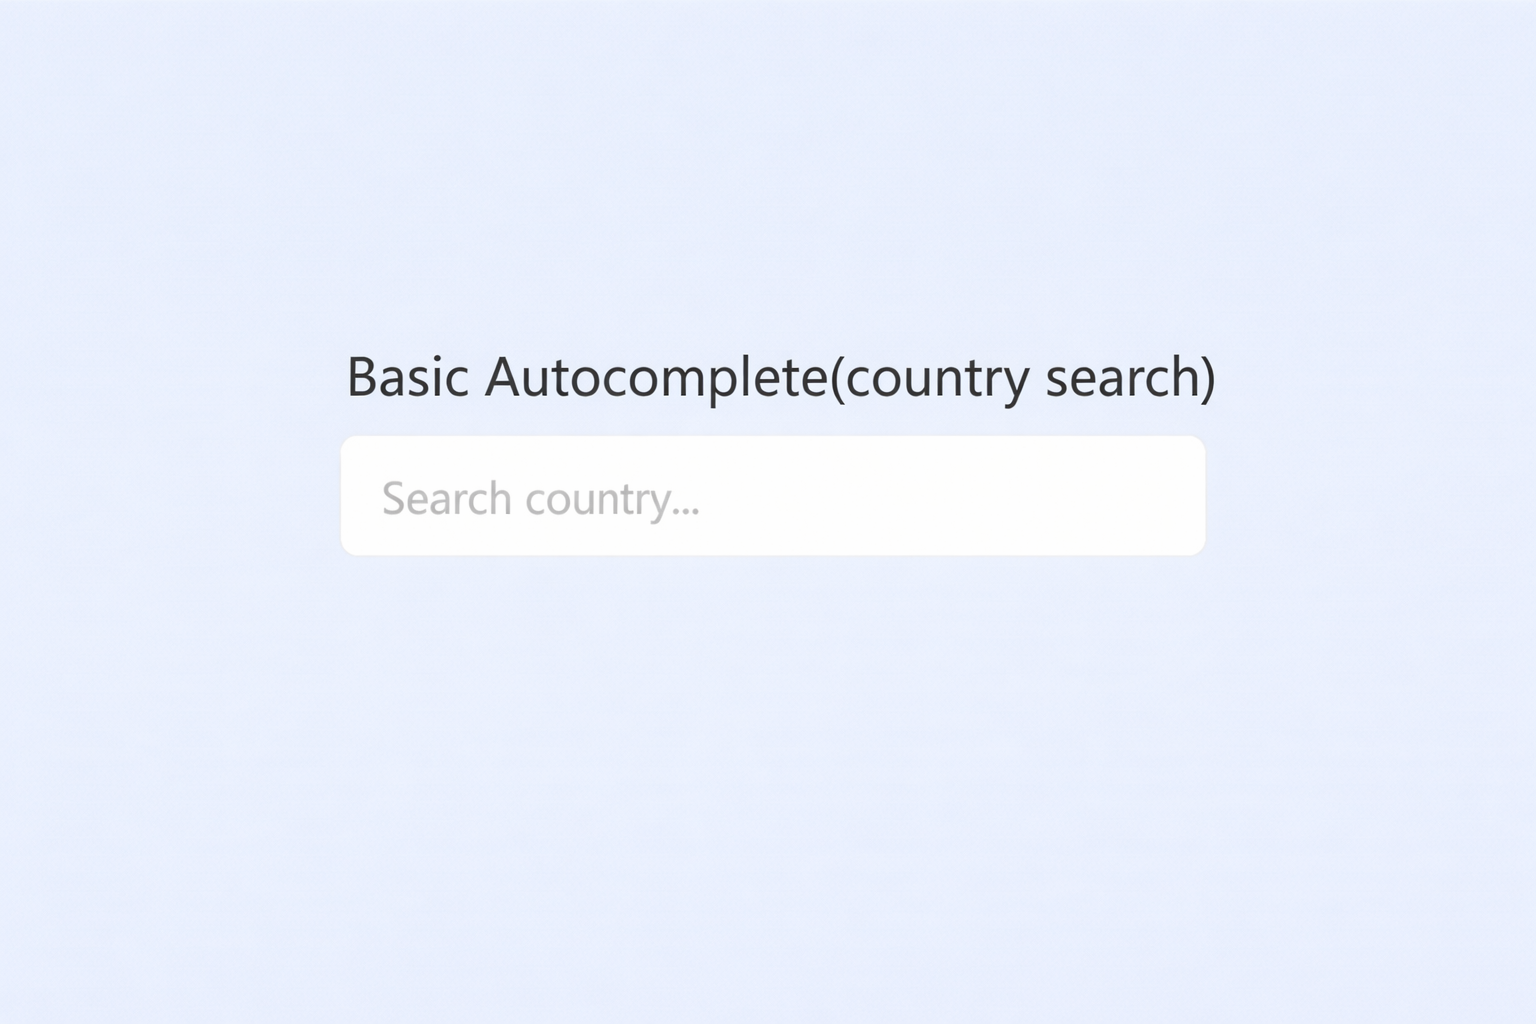
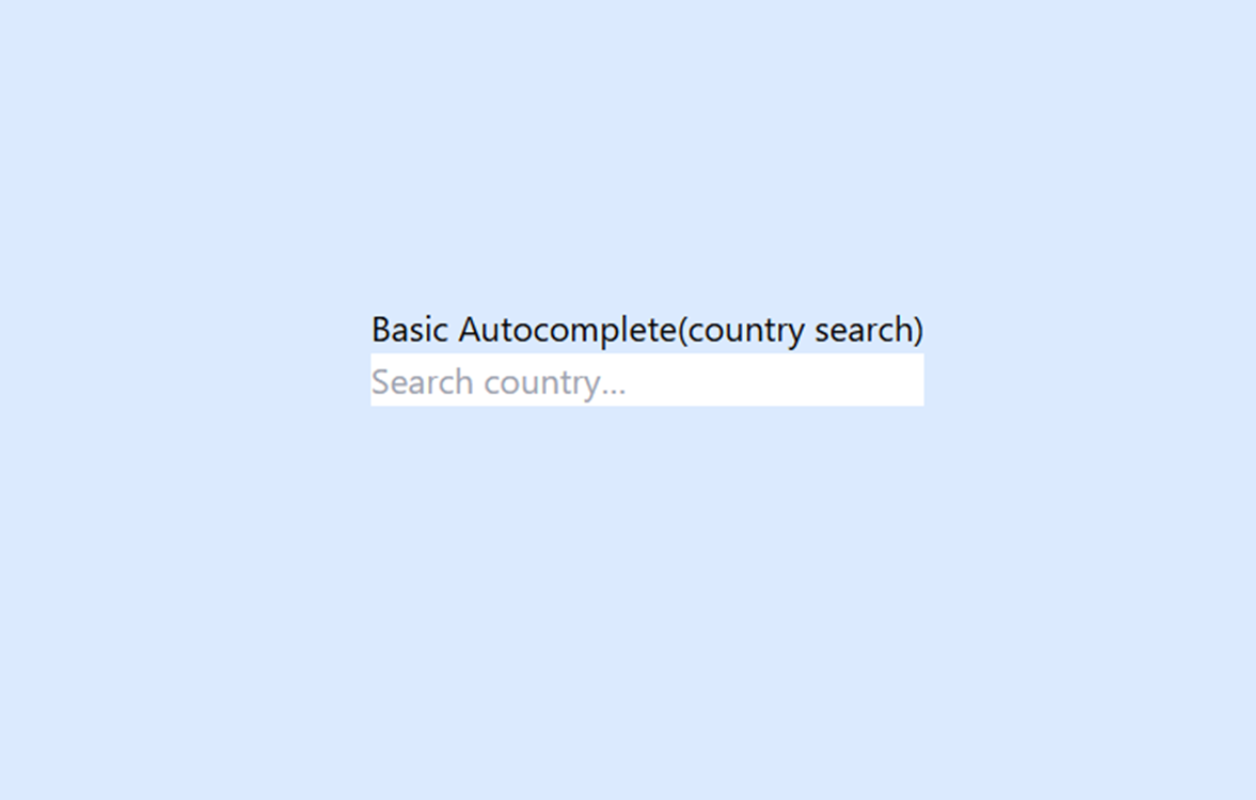
style:added thumbnails and updated its paths.

Changed region(s): [[0.2174, 0.3438, 0.8073, 0.5625]]

diff --git a/apps/docs/src/app/pages/components/components-home/components-home.component.ts b/apps/docs/src/app/pages/components/components-home/components-home.component.ts
@@ -125,61 +125,61 @@ sectionMatchesQuery(section: ComponentDemoSection): boolean {
           routerLink: '../components/forms/form-field/overview',
           title: 'Form Field',
           description: 'Footer',
-          imageUrl: '/assets/components/form/fake.png',
+          imageUrl: '/assets/form-field.png',
         },
         {
           routerLink: '../components/forms/text-input/overview',
           title: 'Textinput',
           description: 'Footer',
-          imageUrl: '/assets/components/form/fake.png',
+          imageUrl: '/assets/text-input.png',
         },
         {
           routerLink: '../components/forms/number-input/overview',
           title: 'Number Input',
           description: 'Footer',
-          imageUrl: '/assets/components/form/fake.png',
+          imageUrl: '/assets/number-input.png',
         },
         {
           routerLink: '../components/forms/textarea/overview',
           title: 'Textarea',
           description: 'Footer',
-          imageUrl: '/assets/components/form/fake.png',
+          imageUrl: '/assets/text-area.png',
         },
         {
           routerLink: '../components/forms/file-upload/overview',
           title: 'File Upload',
           description: 'Footer',
-          imageUrl: '/assets/components/form/fake.png',
+          imageUrl: '/assets/file-upload.png',
         },
         {
           routerLink: '../components/forms/radio-button/overview',
           title: 'Radio Button',
           description: 'Footer',
-          imageUrl: '/assets/components/form/fake.png',
+          imageUrl: '/assets/radio-button.png',
         },
         {
           routerLink: '../components/forms/select/overview',
           title: 'Select',
           description: 'Footer',
-          imageUrl: '/assets/components/form/fake.png',
+          imageUrl: '/assets/select.png',
         },
         {
           routerLink: '../components/forms/slider/overview',
           title: 'Slider',
           description: 'Footer',
-          imageUrl: '/assets/components/form/fake.png',
+          imageUrl: '/assets/slider.png',
         },
         {
           routerLink: '../components/forms/slide-toggle/overview',
           title: 'Slide Toggle',
           description: 'Footer',
-          imageUrl: '/assets/components/form/fake.png',
+          imageUrl: '/assets/slide-toggle.png',
         },
         {
           routerLink: '../components/forms/button-toggle/overview',
           title: 'Button Toggle',
           description: 'Footer',
-          imageUrl: '/assets/components/form/fake.png',
+          imageUrl: '/assets/button-toggle.png',
         },
       ],
     },
@@ -190,49 +190,49 @@ sectionMatchesQuery(section: ComponentDemoSection): boolean {
           routerLink: '../components/buttons/button/overview',
           title: 'Button',
           description: 'Footer',
-          imageUrl: '/assets/components/form/fake.png',
+          imageUrl: '/assets/button.png',
         },
         {
           routerLink: '../components/buttons/badge/overview',
           title: 'Badge',
           description: 'Footer',
-          imageUrl: '/assets/components/form/fake.png',
+          imageUrl: '/assets/badge.png',
         },
         {
           routerLink: '../components/buttons/tag/overview',
           title: 'Tag',
           description: 'Footer',
-          imageUrl: '/assets/components/form/fake.png',
+          imageUrl: '/assets/tag.png',
         },
         {
           routerLink: '../components/buttons/icon/overview',
           title: 'Icon',
           description: 'Footer',
-          imageUrl: '/assets/components/form/fake.png',
+          imageUrl: '/assets/icon.png',
         },
         {
           routerLink: '../components/buttons/ripples/overview',
           title: 'Ripples',
           description: 'Footer',
-          imageUrl: '/assets/components/form/fake.png',
+          imageUrl: '/assets/ripple.png',
         },
         {
           routerLink: '../components/buttons/progress-bar/overview',
           title: 'Progress Bar',
           description: 'Footer',
-          imageUrl: '/assets/components/form/fake.png',
+          imageUrl: '/assets/progress-bar.png',
         },
         {
           routerLink: '../components/buttons/progress-spinner/overview',
           title: 'Progress Spinner',
           description: 'Footer',
-          imageUrl: '/assets/components/form/fake.png',
+          imageUrl: '/assets/progress-spinner.png',
         },
         {
           routerLink: '../components/buttons/skeleton/overview',
           title: 'Skeleton',
           description: 'Footer',
-          imageUrl: '/assets/components/form/fake.png',
+          imageUrl: '/assets/skeleton.png',
         },
       ],
     },
@@ -243,7 +243,7 @@ sectionMatchesQuery(section: ComponentDemoSection): boolean {
           routerLink: '../components/layout/card/overview',
           title: 'Card',
           description: 'Footer',
-          imageUrl: '/assets/components/form/fake.png',
+          imageUrl: '/assets/card.png',
         },
         {
           routerLink: '../components/layout/divider/overview',
@@ -255,19 +255,19 @@ sectionMatchesQuery(section: ComponentDemoSection): boolean {
           routerLink: '../components/layout/expansion-panel/overview',
           title: 'Expansion panel',
           description: 'Footer',
-          imageUrl: '/assets/components/form/fake.png',
+          imageUrl: '/assets/expansion-panel.png',
         },
         {
           routerLink: '../components/layout/tabs/overview',
           title: 'Tabs',
           description: 'Footer',
-          imageUrl: '/assets/components/form/fake.png',
+          imageUrl: '/assets/tabs.png',
         },
         {
           routerLink: '../components/layout/accordion/overview',
           title: 'Accordion',
           description: 'Footer',
-          imageUrl: '/assets/components/form/fake.png',
+          imageUrl: '/assets/accordion.png',
         },
       ],
     },
@@ -278,37 +278,37 @@ sectionMatchesQuery(section: ComponentDemoSection): boolean {
           routerLink: '../components/navigation/menu/overview',
           title: 'Menu',
           description: 'Footer',
-          imageUrl: '/assets/components/form/fake.png',
+          imageUrl: '/assets/menu.png',
         },
         {
           routerLink: '../components/navigation/sidenav/overview',
           title: 'Sidenav',
           description: 'Footer',
-          imageUrl: '/assets/components/form/fake.png',
+          imageUrl: '/assets/sidenav.png',
         },
         {
           routerLink: '../components/navigation/drawer/overview',
           title: 'Drawer',
           description: 'Footer',
-          imageUrl: '/assets/components/form/fake.png',
+          imageUrl: '/assets/drawer.png',
         },
         {
           routerLink: '../components/navigation/stepper/overview',
           title: 'Stepper',
           description: 'Footer',
-          imageUrl: '/assets/components/form/fake.png',
+          imageUrl: '/assets/stepper.png',
         },
         {
           routerLink: '../components/navigation/paginator/overview',
           title: 'Paginator',
           description: 'Footer',
-          imageUrl: '/assets/components/form/fake.png',
+          imageUrl: '/assets/paginator.png',
         },
         {
           routerLink: '../components/navigation/breadcrumbs/overview',
           title: 'Breadcrumbs',
           description: 'Footer',
-          imageUrl: '/assets/components/form/fake.png',
+          imageUrl: '/assets/breadcrumbs.png',
         },
       ],
     },
@@ -319,25 +319,25 @@ sectionMatchesQuery(section: ComponentDemoSection): boolean {
           routerLink: '../components/overlay/dialog/overview',
           title: 'Dialog',
           description: 'Footer',
-          imageUrl: '/assets/components/form/fake.png',
+          imageUrl: '/assets/dialog.png',
         },
         {
           routerLink: '../components/overlay/snackbar/overview',
           title: 'Snackbar',
           description: 'Footer',
-          imageUrl: '/assets/components/form/fake.png',
+          imageUrl: '/assets/snackbar.png',
         },
         {
           routerLink: '../components/overlay/tooltip/overview',
           title: 'Tooltip',
           description: 'Footer',
-          imageUrl: '/assets/components/form/fake.png',
+          imageUrl: '/assets/tooltip.png',
         },
         {
           routerLink: '../components/overlay/popover/overview',
           title: 'Popover',
           description: 'Footer',
-          imageUrl: '/assets/components/form/fake.png',
+          imageUrl: '/assets/popover.png',
         },
       ],
     },
@@ -348,19 +348,19 @@ sectionMatchesQuery(section: ComponentDemoSection): boolean {
           routerLink: '../components/data/table/overview',
           title: 'Table Basic',
           description: 'Footer',
-          imageUrl: '/assets/components/form/fake.png',
+          imageUrl: '/assets/table.png',
         },
         {
           routerLink: '../components/data/sort-header/overview',
           title: 'Sort Header',
           description: 'Footer',
-          imageUrl: '/assets/components/form/fake.png',
+          imageUrl: '/assets/sortable-header.png',
         },
         {
           routerLink: '../components/data/filter-header/overview',
           title: 'Filter Header',
           description: 'Footer',
-          imageUrl: '/assets/components/form/fake.png',
+          imageUrl: '/assets/filter-header.png',
         },
         {
           routerLink: '../components/data/tree/overview',
@@ -378,7 +378,7 @@ sectionMatchesQuery(section: ComponentDemoSection): boolean {
           routerLink: '../components/data/empty-state/overview',
           title: 'Empty State',
           description: 'Footer',
-          imageUrl: '/assets/components/form/fake.png',
+          imageUrl: '/assets/empty-state.png',
         },
       ],
     },
@@ -389,13 +389,13 @@ sectionMatchesQuery(section: ComponentDemoSection): boolean {
           routerLink: '../components/utilities/code-block/overview',
           title: 'Code Block',
           description: 'Footer',
-          imageUrl: '/assets/components/form/fake.png',
+          imageUrl: '/assets/code-block.png',
         },
         {
           routerLink: '../components/utilities/copy-button/overview',
           title: 'Copy Button',
           description: 'Footer',
-          imageUrl: '/assets/components/form/fake.png',
+          imageUrl: '/assets/copy-button.png',
         },
       ],
     },
